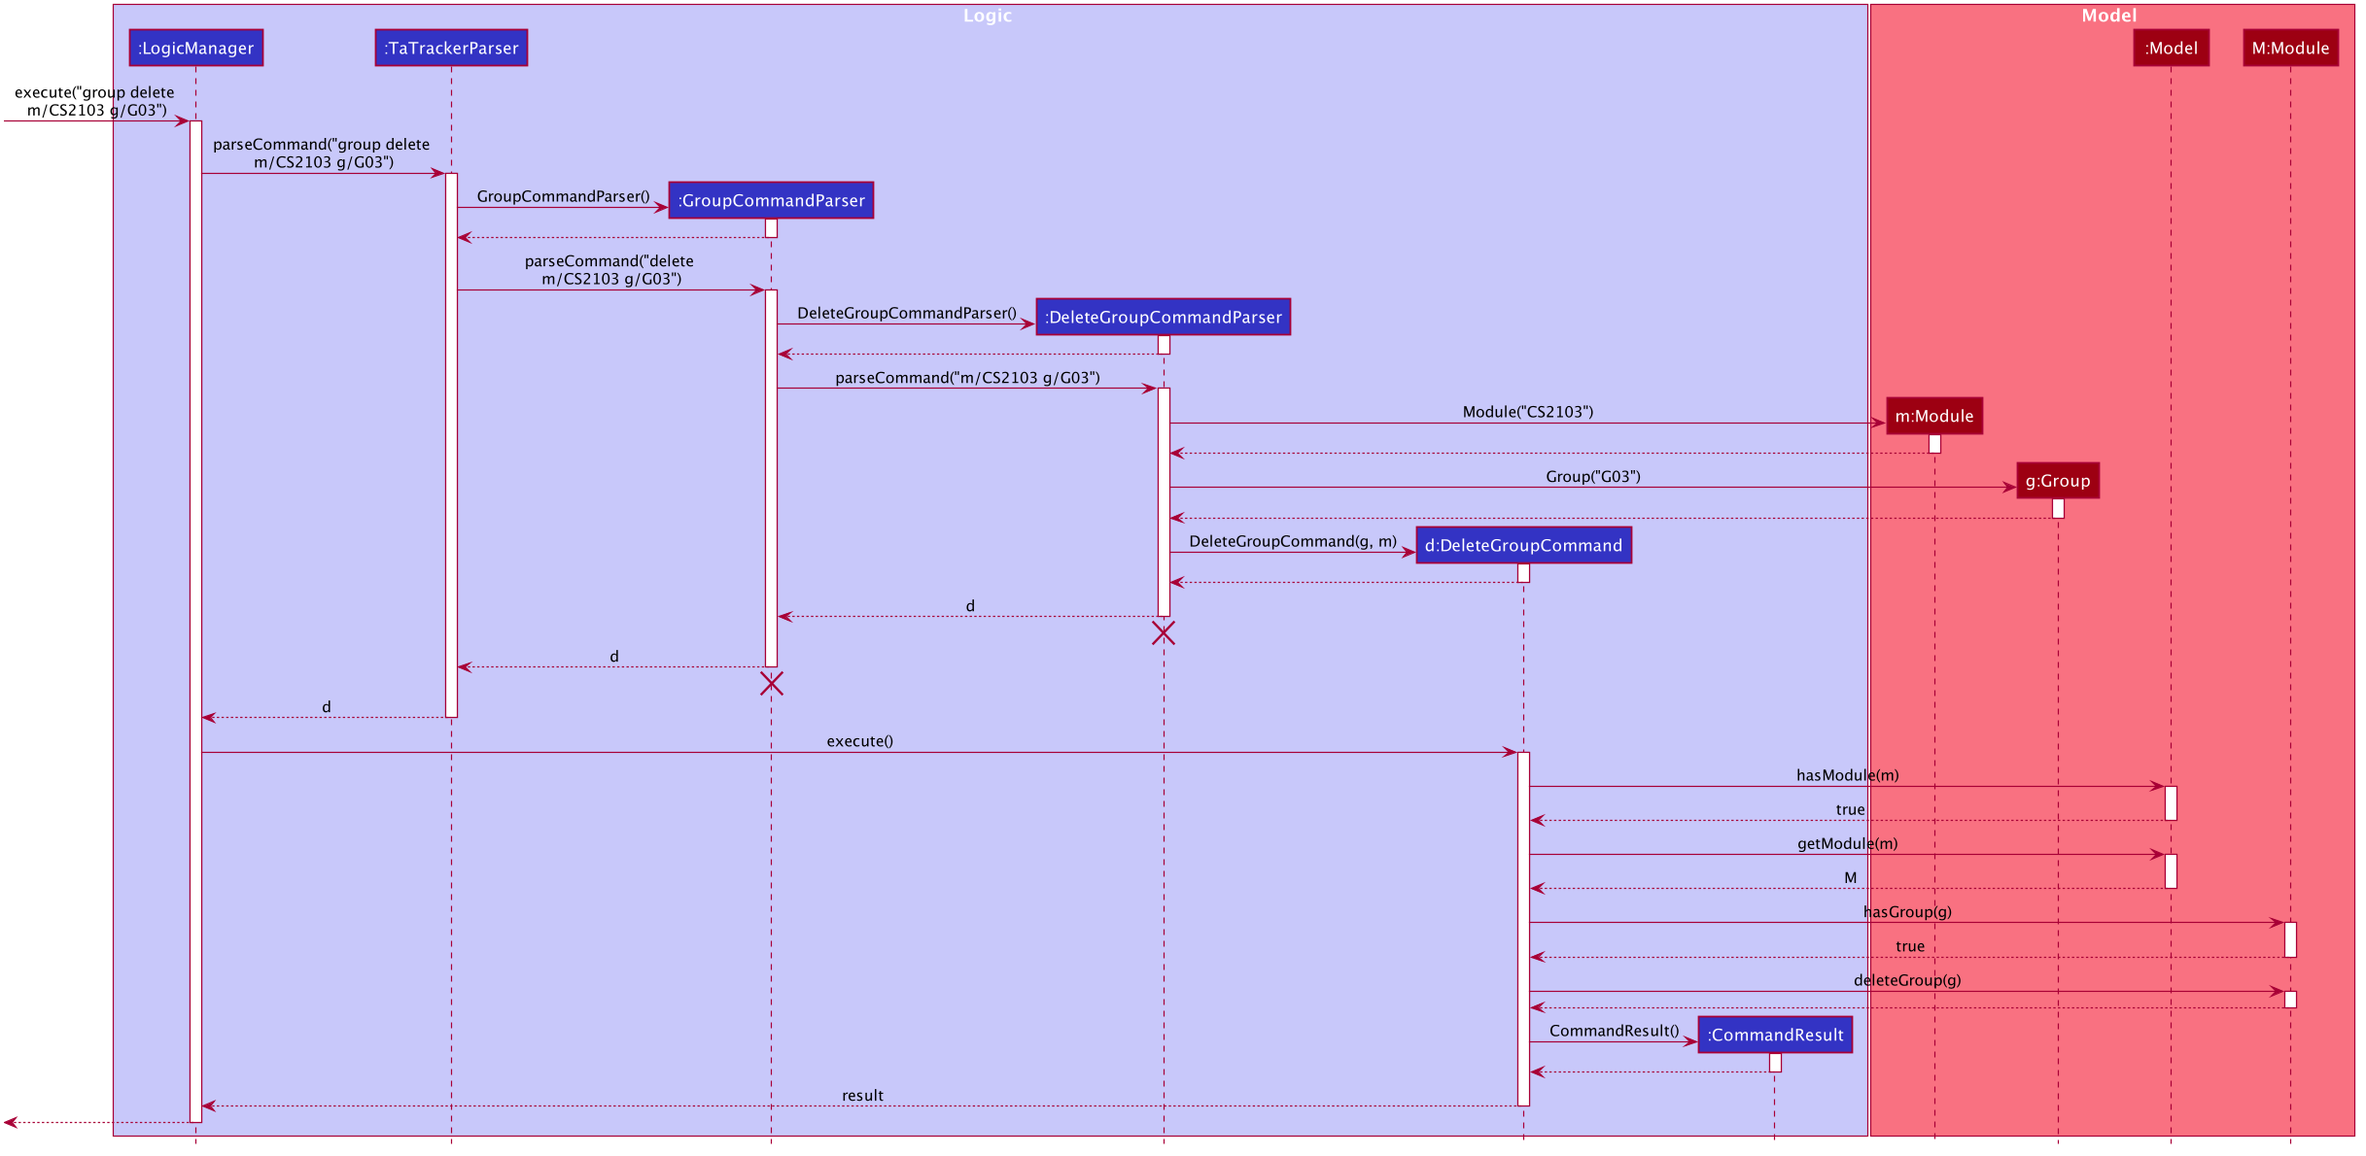
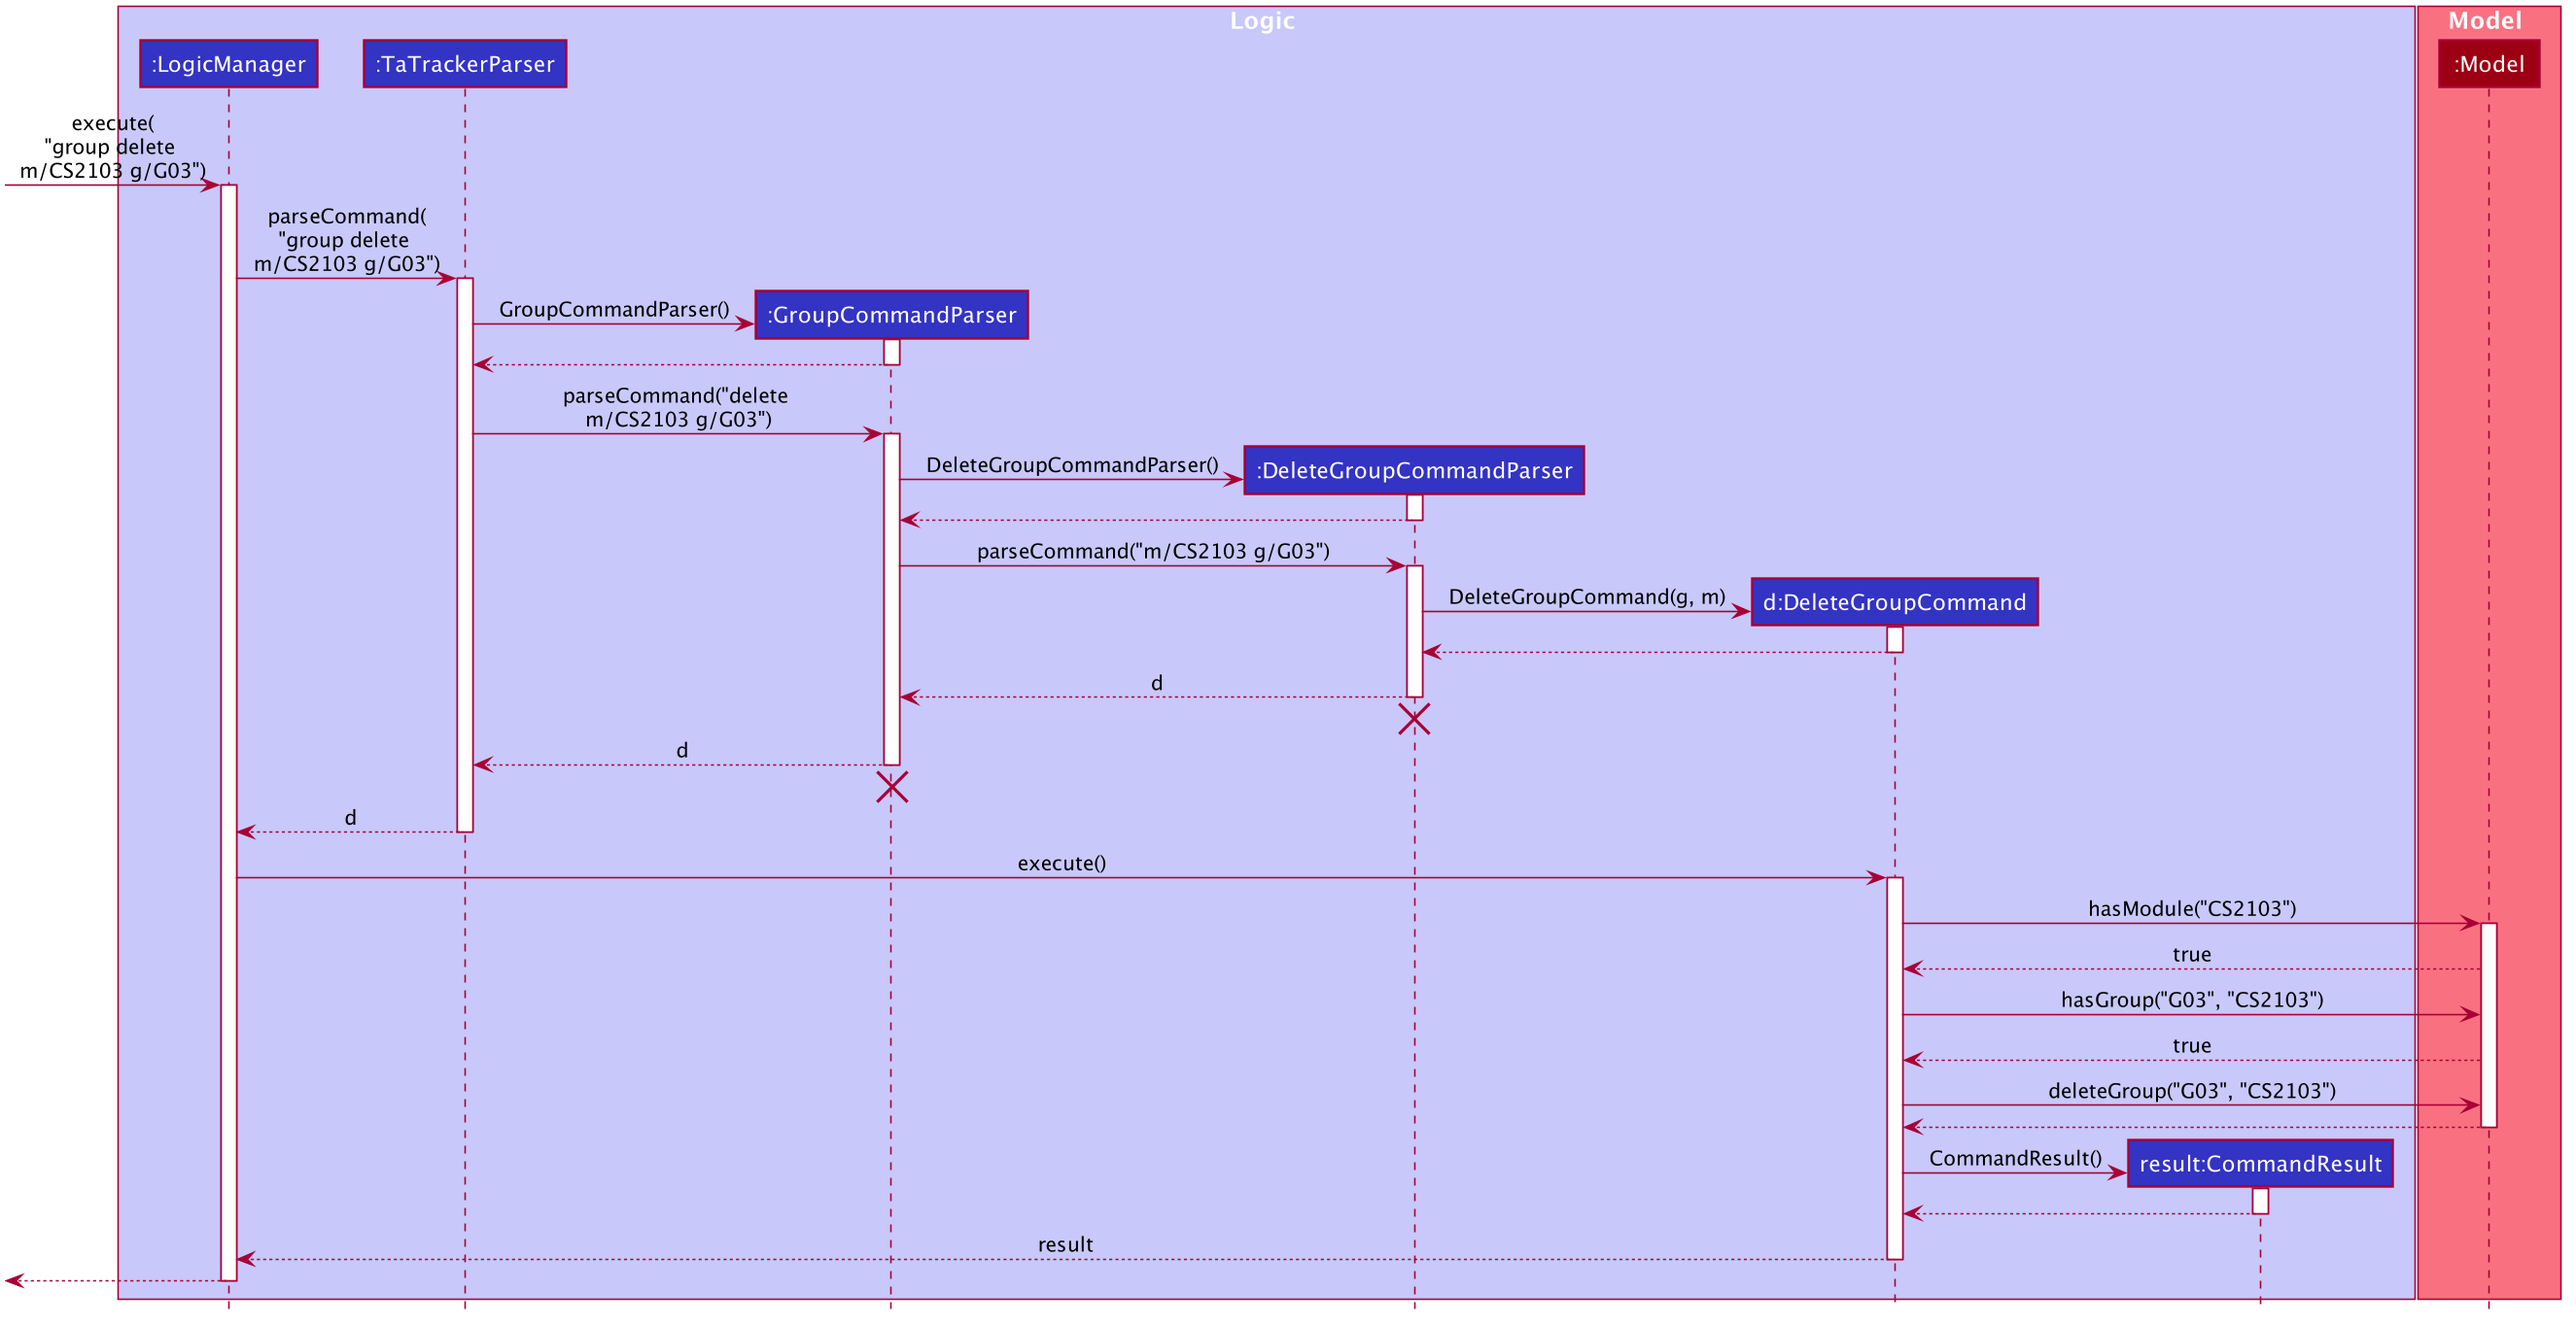
Rebuild pages at d2cb8aeca1900aa12b213902f971a57d7a366ea6

Changed region(s): [[0.0, 0.0, 0.9992, 0.995], [0.3435, 0.6218, 0.4371, 0.684], [0.5308, 0.6529, 0.562, 0.684]]

diff --git a/DeveloperGuide.html b/DeveloperGuide.html
@@ -145,7 +145,8 @@ when faced with difficulties.</p>
 <div class="sectionbody">
 <div class="paragraph">
 <p>TA-Tracker has been designed with <code>Object-Oriented Programming</code>
-principles in mind. This section serves to give a description of the
+principles in mind. We also attempted to use <code>Defensive Programming</code> wherever
+possible. This section serves to give a description of the
 major components in the architecture of TA-Tracker. Subsequent sections
 provide more information on the inner workings of individual components.</p>
 </div>
@@ -483,8 +484,7 @@ the respective groups.</p>
 <div class="sect2">
 <h3 id="StudentView"><a class="link" href="#StudentView">4.1. Student View</a></h3>
 <div class="paragraph">
-<p><strong>Student view</strong> is the term used to characterise the different functionalities
-related to the students.</p>
+<p><strong>Student View</strong> is used to display all modules, groups and students in the TA-Tracker.</p>
 </div>
 <div class="paragraph">
 <p>Students are a part of <strong>groups</strong> and groups are a part of <strong>modules</strong>.</p>
@@ -542,7 +542,8 @@ is only unique within a module. Group codes can be shared across modules.</p>
 <li>
 <p>While this implementation would make it easier to generate a report at the end of
 the semester (explained towards the end of the guide), it would require more commands
-and complicate the model. That is why we decided to stick to our current implementation.</p>
+and the creation of association classes which would unnecessarily complicate the model.
+That is why we decided to stick to our current implementation.</p>
 </li>
 </ul>
 </div>
@@ -625,8 +626,8 @@ code already exists in the TA-Tracker.</p>
 difference is that the <code>DeleteModuleCommand</code> checks whether an object with the given
 module code exists in the TA-Tracker. If no such module exists, a command exception
 is thrown saying that a module with the given module code doesn&#8217;t exist. If it does
-exist, <strong>first all the sessions linked to that module are removed</strong>.
-Then the module is removed from the TA-Tracker.</p>
+exist, <strong>first all the sessions linked to that module are removed</strong> , then the module
+is removed from the TA-Tracker.</p>
 </div>
 <div class="paragraph">
 <p>The <code>module edit</code> command has been implemented in a similar manner.</p>
@@ -708,13 +709,9 @@ in the module with module code CS2103 inside the TA-Tracker.</p>
 destroy marker (X) but due to a limitation of PlantUML, the lifeline reaches the end of diagram.</p>
 </li>
 <li>
-<p>The module object named <code>m</code> and the group object named <code>g</code> are created as default
-module and group objects because the DeleteGroupCommand object&#8217;s constructor takes
-in objects of type <code>Group</code> and <code>Module</code>.</p>
-</li>
-<li>
-<p>These objects are used to retrieve the actual module (the module object named <code>M</code>)
-and the delete the desired group from it.</p>
+<p>The main difference between the <code>Module</code> and <code>Group</code> commands is that the <code>Group</code>
+commands require extra checks to check whether a group with the given group code
+exists inside the module with the given module code.</p>
 </li>
 </ul>
 </div>
@@ -736,12 +733,8 @@ command to the <code>GroupCommandParser</code>.</p>
 arguments to the <code>DeleteGroupCommandParser</code>.</p>
 </li>
 <li>
-<p>The <code>DeleteGroupCommandParser</code> creates a <code>Module</code> with the given module code and
-a <code>Group</code> with the given group code.</p>
-</li>
-<li>
 <p>The <code>DeleteGroupCommandParser</code> then creates a <code>DeleteGroupCommand</code> object and passes
-it the created module and group. The parser then returns the <code>DeleteGroupCommand</code> object.</p>
+it the module code, group code and group type. The parser then returns the <code>DeleteGroupCommand</code> object.</p>
 </li>
 <li>
 <p><code>LogicManager</code> calls <code>DeleteGroupCommand</code> 's execute method. The <code>DeleteGroupCommand</code> object
@@ -750,8 +743,8 @@ If it doesn&#8217;t, a command exception is thrown saying that a module with the
 code doesn&#8217;t exist in the TA-Tracker.</p>
 </li>
 <li>
-<p>If the module exists, the <code>DeleteGroupCommand</code> object retrieves the module from the
-model and checks whether the module has a <strong>group</strong> with the given group code. If it doesn&#8217;t,
+<p>If the module exists, the <code>DeleteGroupCommand</code> then checks whether a group with the
+given group code exists within that module. If it doesn&#8217;t,
 a command exception is thrown saying that no such group exists. If the group does
 exist, it is removed from the module.</p>
 </li>
@@ -806,7 +799,7 @@ can be either alphabetical or by rating).</p>
 <div class="ulist">
 <ul>
 <li>
-<p><code>alpha</code>, <code>alphabetical</code> or <code>alphabetically</code> to sort alphabteically.</p>
+<p><code>alpha</code>, <code>alphabetical</code> or <code>alphabetically</code> to sort alphabetically.</p>
 </li>
 <li>
 <p><code>rating asc</code> to sort by rating in ascending order.</p>
@@ -901,8 +894,14 @@ model components when the user enters the command <code>sort all t/matric</code>
 <div class="ulist">
 <ul>
 <li>
-<p>The lifeline for <code>SortCommandParser`</code> should end at the
+<p>The lifeline for <code>SortCommandParser</code> should end at the
 destroy marker (X) but due to a limitation of PlantUML, the lifeline reaches the end of diagram.</p>
+</li>
+<li>
+<p>The <code>SortCommandParser</code>, which creates <code>Sort</code> commands, is different from the other
+command parsers. While the other commands have another level of parsing (such as the
+<code>ModuleCommandParser</code> for <code>Module</code> commands), the SortCommandParser
+creates all the different Sort commands within itself.</p>
 </li>
 </ul>
 </div>
@@ -953,6 +952,25 @@ pre-existing in the TA-Tracker.</p>
 <img src="images/AddStudentSequenceDiagram.png" alt="AddStudentSequenceDiagram">
 </div>
 <div class="title">Figure 15. Student Add - Sequence Diagram</div>
+</div>
+<div class="admonitionblock note">
+<table>
+<tr>
+<td class="icon">
+<i class="fa icon-note" title="Note"></i>
+</td>
+<td class="content">
+<div class="ulist">
+<ul>
+<li>
+<p>The lifeline for <code>StudentCommandParser</code> and <code>AddStudentCommandParser</code> should end at the
+destroy marker (X) but due to a limitation of PlantUML, the lifeline reaches the end of diagram.</p>
+</li>
+</ul>
+</div>
+</td>
+</tr>
+</table>
 </div>
 <div class="olist arabic">
 <ol class="arabic">
@@ -3016,4 +3034,4 @@ Expected: Similar to previous.</p>
 </div>
 </div>
 </div>
-</div></div><div id="footer"><div class="container"><div id="footer-text">Last updated 2020-04-01 06:55:39 UTC</div></div></div></body></html>
+</div></div><div id="footer"><div class="container"><div id="footer-text">Last updated 2020-04-01 18:15:27 UTC</div></div></div></body></html>

diff --git a/AboutUs.html b/AboutUs.html
@@ -41,7 +41,7 @@ Responsibilities: Scheduling and tracking</p>
 </div>
 <div class="paragraph">
 <p>Role: Developer<br>
-Responsibilities: PlantUML Expert, Deliverables and deadlines</p>
+Responsibilities: In charge of Student View, PlantUML Expert, Deliverables and deadlines</p>
 </div>
 <hr>
 </div>
@@ -94,4 +94,4 @@ Responsibilities: Integration</p>
 <hr>
 </div>
 </div>
-</div></div><div id="footer"><div class="container"><div id="footer-text">Last updated 2020-04-01 06:55:39 UTC</div></div></div></body></html>
+</div></div><div id="footer"><div class="container"><div id="footer-text">Last updated 2020-04-01 18:15:27 UTC</div></div></div></body></html>

diff --git a/tutorials/RemovingFields.html b/tutorials/RemovingFields.html
@@ -175,4 +175,4 @@ While keeping the <code>address</code> field in the json files does not cause th
 <p>You can go through each individual <code>json</code> file and manually remove the <code>address</code> field.</p>
 </div>
 </div>
-</div></div><div id="footer"><div class="container"><div id="footer-text">Last updated 2020-04-01 06:55:39 UTC</div></div></div></body></html>
+</div></div><div id="footer"><div class="container"><div id="footer-text">Last updated 2020-04-01 18:15:27 UTC</div></div></div></body></html>

diff --git a/tutorials/AddRemark.html b/tutorials/AddRemark.html
@@ -616,4 +616,4 @@ In this case, <code>CommandTestUtil#assertCommandSuccess</code> is the best fit 
 <p>This concludes the tutorial for adding a new <code>Command</code> to AddressBook.</p>
 </div>
 </div>
-</div></div><div id="footer"><div class="container"><div id="footer-text">Last updated 2020-04-01 06:55:39 UTC</div></div></div></body></html>
+</div></div><div id="footer"><div class="container"><div id="footer-text">Last updated 2020-04-01 18:15:27 UTC</div></div></div></body></html>

diff --git a/Testing.html b/Testing.html
@@ -90,4 +90,4 @@ e.g. <code>tatracker.logic.LogicManagerTest</code></p>
 <div class="title">Figure 1. <code>Accessibility</code> permission is granted to <code>IntelliJ IDEA</code></div>
 </div>
 </div>
-</div></div><div id="footer"><div class="container"><div id="footer-text">Last updated 2020-04-01 06:55:39 UTC</div></div></div></body></html>
+</div></div><div id="footer"><div class="container"><div id="footer-text">Last updated 2020-04-01 18:15:27 UTC</div></div></div></body></html>

diff --git a/index.html b/index.html
@@ -70,4 +70,4 @@ project created by <a href="https://se-education.org">SE-EDU initiative</a>.</p>
 <div class="sectionbody">
 
 </div>
-</div></div><div id="footer"><div class="container"><div id="footer-text">Last updated 2020-04-01 06:55:39 UTC</div></div></div></body></html>
+</div></div><div id="footer"><div class="container"><div id="footer-text">Last updated 2020-04-01 18:15:27 UTC</div></div></div></body></html>

diff --git a/UserGuide.html b/UserGuide.html
@@ -1842,4 +1842,4 @@ the empty data file it creates with the data file of your previous TA-Tracker fo
 </div>
 </div>
 </div>
-</div></div><div id="footer"><div class="container"><div id="footer-text">Last updated 2020-04-01 06:55:39 UTC</div></div></div></body></html>
+</div></div><div id="footer"><div class="container"><div id="footer-text">Last updated 2020-04-01 18:15:27 UTC</div></div></div></body></html>

diff --git a/LearningOutcomes.html b/LearningOutcomes.html
@@ -474,4 +474,4 @@ of storages, but different number of storages (e.g. save to both a text file and
 </div>
 </div>
 </div>
-</div></div><div id="footer"><div class="container"><div id="footer-text">Last updated 2020-04-01 06:55:39 UTC</div></div></div></body></html>
+</div></div><div id="footer"><div class="container"><div id="footer-text">Last updated 2020-04-01 18:15:27 UTC</div></div></div></body></html>

diff --git a/SettingUp.html b/SettingUp.html
@@ -161,4 +161,4 @@ Having both Travis and AppVeyor ensures your App works on both Unix-based platfo
 </div>
 </div>
 </div>
-</div></div><div id="footer"><div class="container"><div id="footer-text">Last updated 2020-04-01 06:55:39 UTC</div></div></div></body></html>
+</div></div><div id="footer"><div class="container"><div id="footer-text">Last updated 2020-04-01 18:15:27 UTC</div></div></div></body></html>

diff --git a/UsingCoveralls.html b/UsingCoveralls.html
@@ -111,4 +111,4 @@ If you have not set up Travis CI, see <a href="UsingTravis.html">UsingTravis.ado
 </ol>
 </div>
 </div>
-</div></div><div id="footer"><div class="container"><div id="footer-text">Last updated 2020-04-01 06:55:39 UTC</div></div></div></body></html>
+</div></div><div id="footer"><div class="container"><div id="footer-text">Last updated 2020-04-01 18:15:27 UTC</div></div></div></body></html>

diff --git a/UsingGradle.html b/UsingGradle.html
@@ -228,4 +228,4 @@ See <code>build.gradle</code> &#8594; <code>allprojects</code> &#8594; <code>dep
 </ul>
 </div>
 </div>
-</div></div><div id="footer"><div class="container"><div id="footer-text">Last updated 2020-04-01 06:55:39 UTC</div></div></div></body></html>
+</div></div><div id="footer"><div class="container"><div id="footer-text">Last updated 2020-04-01 18:15:27 UTC</div></div></div></body></html>

diff --git a/UsingNetlify.html b/UsingNetlify.html
@@ -138,4 +138,4 @@ The publish directory is the directory in which the built HTML documentation res
 </ol>
 </div>
 </div>
-</div></div><div id="footer"><div class="container"><div id="footer-text">Last updated 2020-04-01 06:55:39 UTC</div></div></div></body></html>
+</div></div><div id="footer"><div class="container"><div id="footer-text">Last updated 2020-04-01 18:15:27 UTC</div></div></div></body></html>
